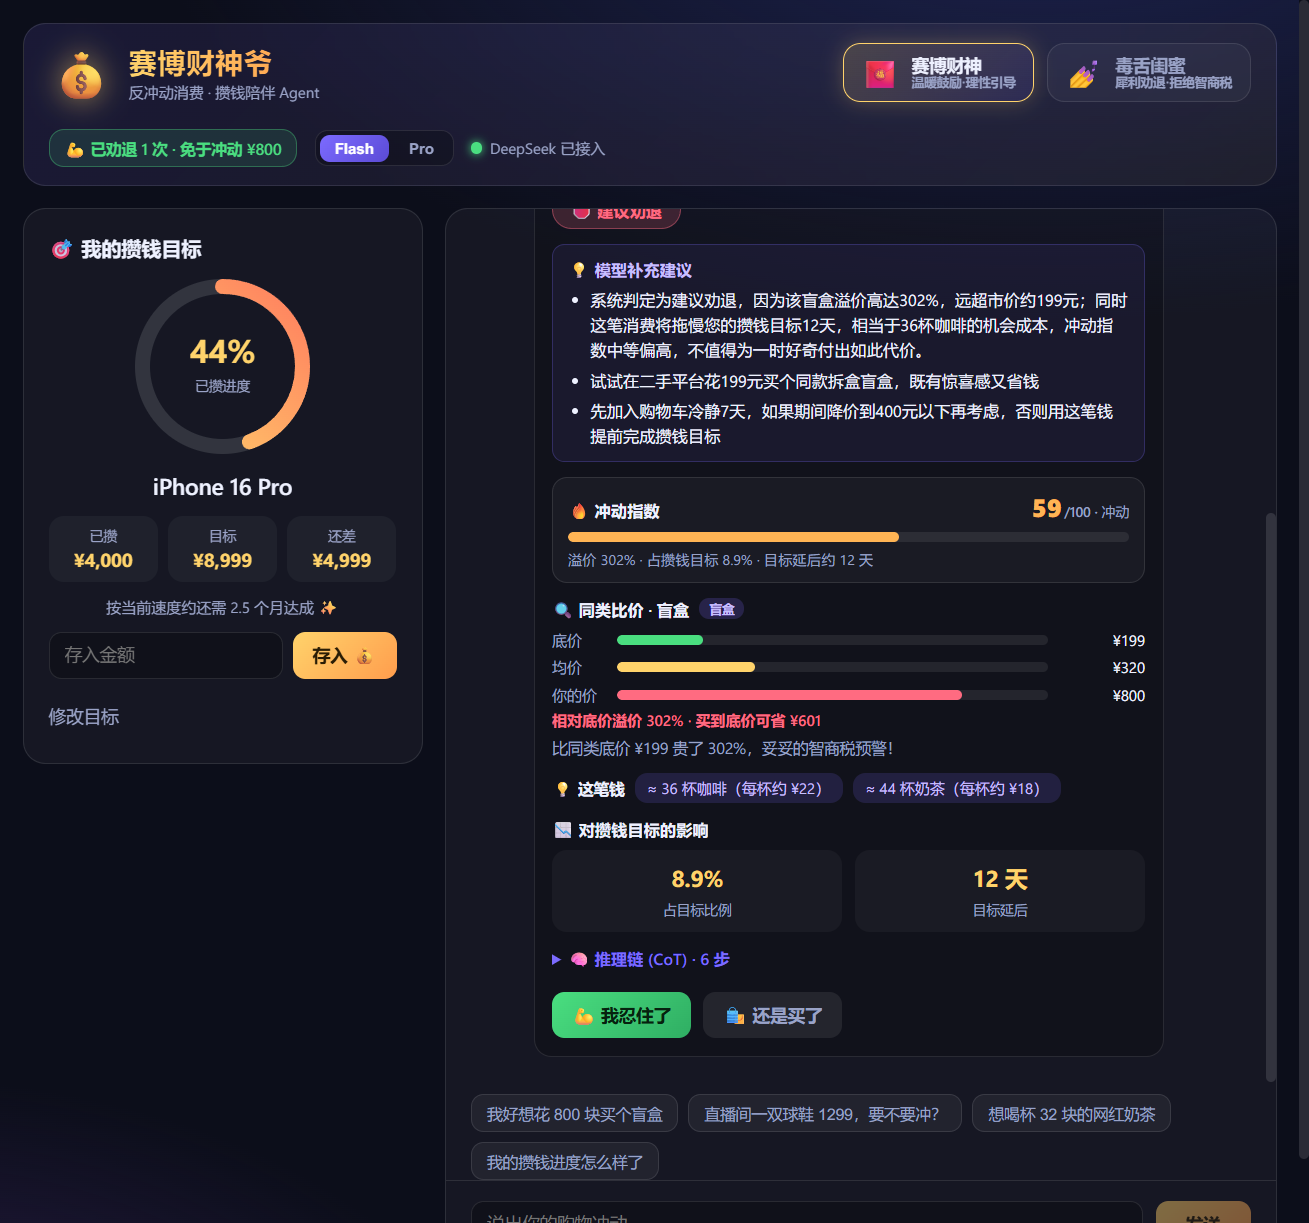
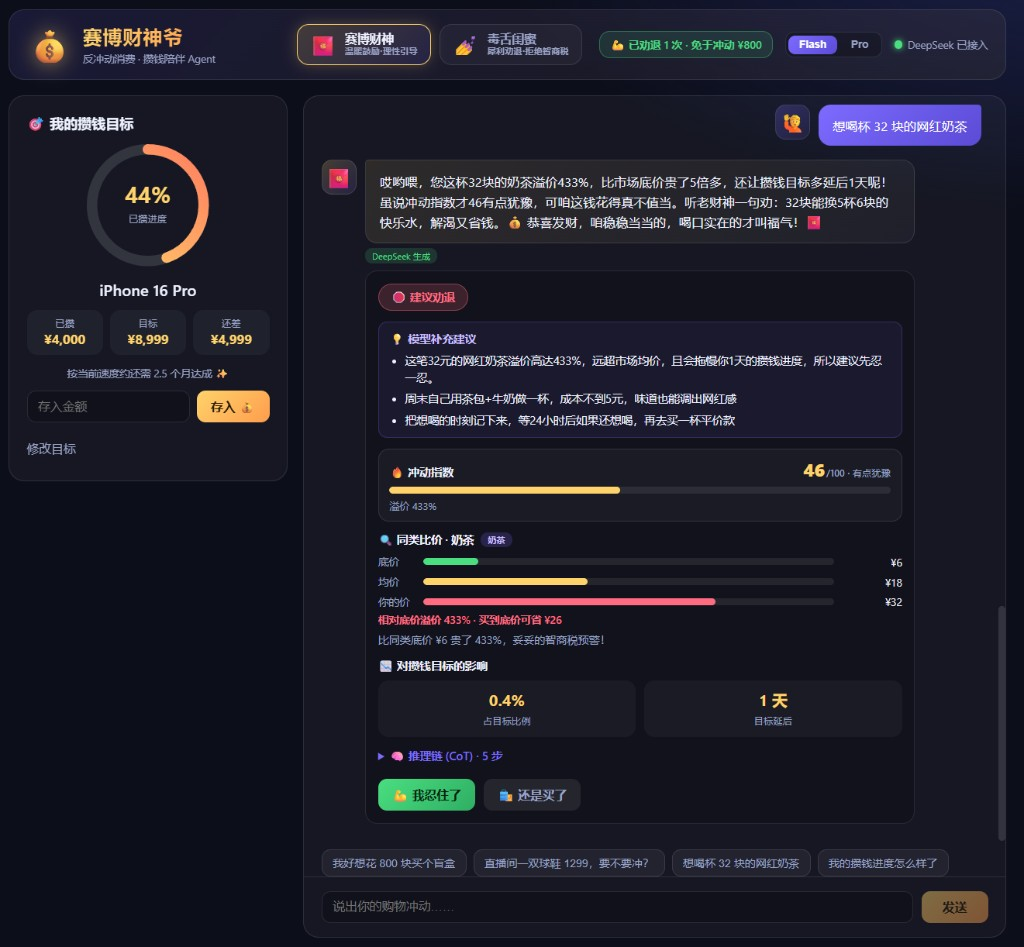
docs: 更新演示截图，展示用户输入与模型回复
替换 README 效果预览图，包含完整对话气泡与分析卡。

diff --git a/README.md b/README.md
@@ -8,11 +8,11 @@
 
 ## 效果预览
 
-赛博财神模式：流式人格化回复（引用溢价率/占目标比例等数字说明裁决依据）→ 分析卡（冲动指数、比价柱状图、模型补充建议、CoT、忍住/购买）：
+毒舌闺蜜模式：用户输入 → 流式人格化回复（引用溢价率/占目标比例等数字）→ 分析卡（冲动指数、比价柱状图、模型补充建议、CoT、忍住/购买）：
 
 ![赛博财神爷演示](docs/images/demo.png)
 
-**建议演示路径**：左侧设攒钱目标 → 发送「我好想花 800 块买个盲盒」→ 等流式文字打完再看分析卡 → 点「我忍住了」→「把省下的钱存进目标」→ 切换毒舌闺蜜对比语气（各自保留聊天记录）。
+**建议演示路径**：左侧设攒钱目标 → 发送「想喝杯 32 块的网红奶茶」或「我好想花 800 块买个盲盒」→ 等流式文字打完再看分析卡 → 点「我忍住了」→「把省下的钱存进目标」→ 切换赛博财神对比语气（各自保留聊天记录）。
 
 ## 核心特性
 